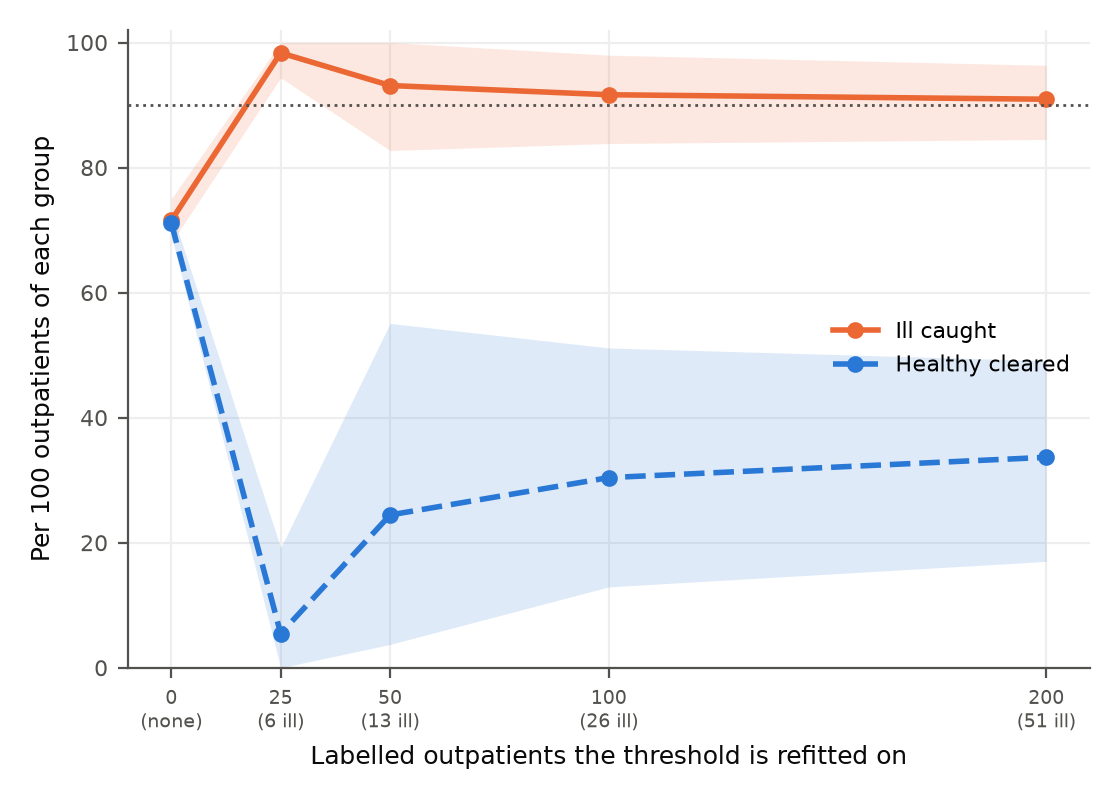
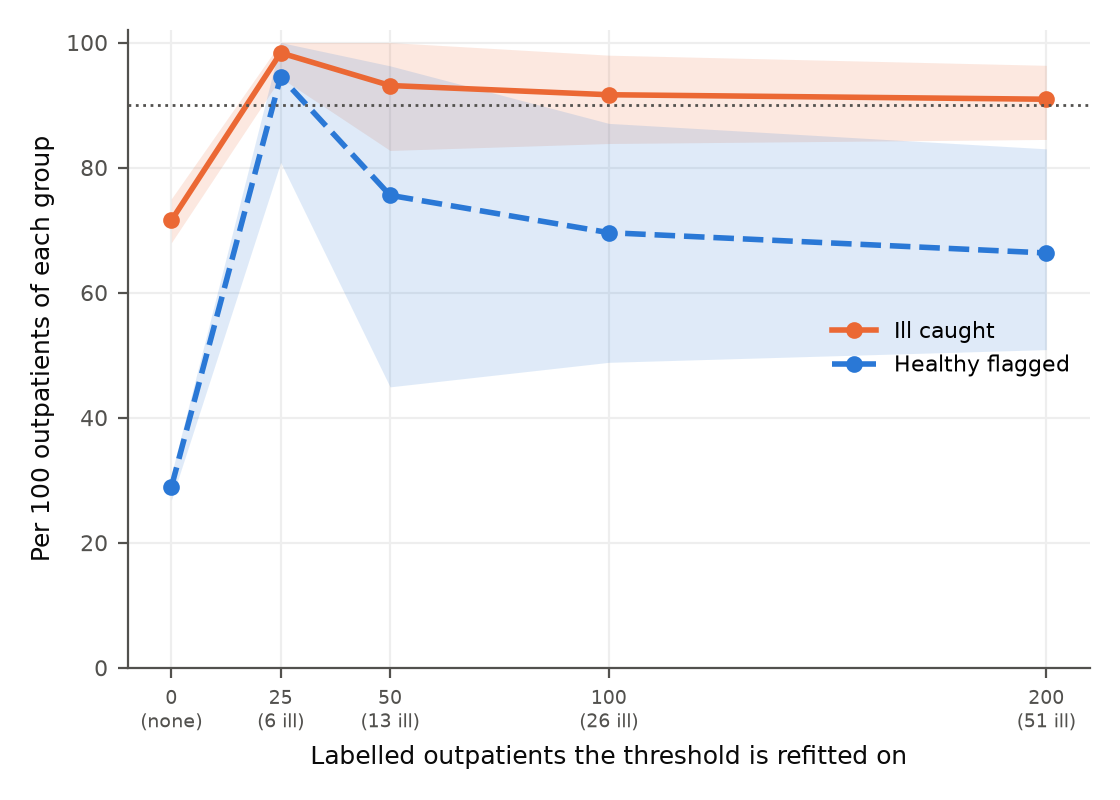
Name the figures' bars as the text names them, and round Table 1 to add up
Figure 1 labelled "caught" the ill flagged with no reader and "flagged" the
healthy flagged with no reader, while the text counts every flagged patient
as flagged and every flagged ill patient as caught. The legend now reads
"flagged, no reader", "sent to a reader", "missed" and "cleared, no
reader", "sent to a reader", "flagged, no reader", and each row's counts are
rounded to sum to 100. Figure 3 drew the healthy cleared under a text that
counts the healthy flagged; it now draws the healthy flagged. The three
captions name the cohorts, their sizes and what each line or band is.

Table 1's second-threshold rows were rounded one by one, so 54 + 37 made 91
for 90 caught and 35 + 36 made 71 for 72. paper_values rounds each group of
100 by largest remainder, and a test holds the sums. The caption gives the
counts behind each column.

The abstract now names the 2,203 other inpatients the 58 of 100 healthy are
read on, and gives the infarction result it announced in its methods. The
infarction method sentence in section 2.5 no longer splits "applied
unchanged" from what it was applied to.

Closes A19-2, A18-9, A19-10, A19-13, A01-5, A02-8, A16-8, A18-10, A19-11,
A19-9, A19-14, A17-14, A18-14.
Red at the parent: test_table_1_rows_add_up_to_the_totals_they_split.

$ uv run ruff check .
All checks passed!
$ uv run ruff format --check .
116 files already formatted
$ uv run mypy .
Success: no issues found in 102 source files
$ uv run pytest -q -o addopts=""
[…]

diff --git a/scripts/paper_figures.py b/scripts/paper_figures.py
@@ -88,6 +88,17 @@ def curve(result: dict[str, Any], path: Path) -> None:
     plt.close(fig)
 
 
+def largest_remainder(shares: list[float]) -> list[int]:
+    """Shares that sum to one, as whole counts per 100 that sum to 100: each is rounded
+    down, and the points left go to the largest remainders."""
+    exact = [100 * s for s in shares]
+    counts = [int(x) for x in exact]
+    order = sorted(range(len(exact)), key=lambda i: exact[i] - counts[i], reverse=True)
+    for i in order[: 100 - sum(counts)]:
+        counts[i] += 1
+    return counts
+
+
 def patients(result: dict[str, Any], path: Path) -> None:
     fig, axes = plt.subplots(1, 2, figsize=(9.0, 3.8), dpi=200, sharey=True)
     rows = [(arm, method) for arm in ARM_NAMES for method in ("plain", "perlabel")]
@@ -96,19 +107,17 @@ def patients(result: dict[str, Any], path: Path) -> None:
         for arm, method in rows
     ]
     for axis, group, names in (
-        (axes[0], "ill", ("caught", "sent to a reader", "missed")),
-        (axes[1], "healthy", ("cleared", "sent to a reader", "flagged")),
+        (axes[0], "ill", ("flagged, no reader", "sent to a reader", "missed")),
+        (axes[1], "healthy", ("cleared, no reader", "sent to a reader", "flagged, no reader")),
     ):
         style(axis)
         axis.grid(False)
         for i, (arm, method) in enumerate(rows):
             shares = result["arms"][arm]["outpatient"]["outcomes"][method][group]
+            keys = ("right_alone", "deferred", "wrong_alone")
+            counts = largest_remainder([shares[k]["share"] for k in keys])
             left = 0.0
-            for key, colour in (
-                ("right_alone", RIGHT),
-                ("deferred", DEFERRED),
-                ("wrong_alone", WRONG),
-            ):
+            for key, colour, shown in zip(keys, (RIGHT, DEFERRED, WRONG), counts, strict=True):
                 width = 100 * shares[key]["share"]
                 axis.barh(
                     i, width, left=left, color=colour, edgecolor="white", linewidth=2, height=0.75
@@ -118,7 +127,7 @@ def patients(result: dict[str, Any], path: Path) -> None:
                     axis.text(
                         left + width / 2,
                         i,
-                        f"{width:.0f}",
+                        f"{shown}",
                         ha="center",
                         va="center",
                         fontsize=7,
@@ -153,11 +162,13 @@ def repair(result: dict[str, Any], path: Path) -> None:
     x = [row["labels"] for row in ladder]
     for key, colour, dash, name in (
         ("sensitivity", OUTPATIENT, "-", "Ill caught"),
-        ("specificity", INPATIENT, "--", "Healthy cleared"),
+        ("specificity", INPATIENT, "--", "Healthy flagged"),
     ):
-        mean = [100 * row[key]["mean"] for row in ladder]
-        low = [100 * row[key]["p10"] for row in ladder]
-        high = [100 * row[key]["p90"] for row in ladder]
+        # Healthy flagged is one minus the specificity, so its band flips ends.
+        flip = key == "specificity"
+        mean = [100 * (1 - row[key]["mean"] if flip else row[key]["mean"]) for row in ladder]
+        low = [100 * (1 - row[key]["p90"] if flip else row[key]["p10"]) for row in ladder]
+        high = [100 * (1 - row[key]["p10"] if flip else row[key]["p90"]) for row in ladder]
         axis.fill_between(x, low, high, color=colour, alpha=0.15, linewidth=0)
         axis.plot(x, mean, dash, color=colour, lw=2, marker="o", ms=5, label=name)
     axis.axhline(90, color=MUTED, lw=1, ls=":")

diff --git a/tests/paper_values.py b/tests/paper_values.py
@@ -56,6 +56,18 @@ def per100(x: float) -> str:
     return f"{round(100 * x)}"
 
 
+def largest_remainder(shares: list[float]) -> list[int]:
+    """Shares that sum to one, as whole counts per 100 that sum to 100: each is rounded
+    down, and the points left go to the largest remainders.  Table 1's rows then add up
+    to the totals they split."""
+    exact = [100 * s for s in shares]
+    counts = [int(x) for x in exact]
+    order = sorted(range(len(exact)), key=lambda i: exact[i] - counts[i], reverse=True)
+    for i in order[: 100 - sum(counts)]:
+        counts[i] += 1
+    return counts
+
+
 def count(n: float) -> str:
     return f"{round(n):,}"
 
@@ -101,10 +113,14 @@ def echonext() -> dict[str, str]:
             out[f"caught_{short}_{c}"] = per100(plain_o["ill"]["right_alone"]["share"])
             out[f"missed_{short}_{c}"] = per100(plain_o["ill"]["wrong_alone"]["share"])
             out[f"flagged_{short}_{c}"] = per100(plain_o["healthy"]["wrong_alone"]["share"])
-            out[f"pl_alone_{short}_{c}"] = per100(perlabel["ill"]["right_alone"]["share"])
-            out[f"pl_def_{short}_{c}"] = per100(perlabel["ill"]["deferred"]["share"])
-            out[f"pl_hdef_{short}_{c}"] = per100(perlabel["healthy"]["deferred"]["share"])
-            out[f"pl_hflag_{short}_{c}"] = per100(perlabel["healthy"]["wrong_alone"]["share"])
+            keys = ("right_alone", "deferred", "wrong_alone")
+            ill = largest_remainder([perlabel["ill"][k]["share"] for k in keys])
+            healthy = largest_remainder([perlabel["healthy"][k]["share"] for k in keys])
+            out[f"pl_alone_{short}_{c}"], out[f"pl_def_{short}_{c}"] = f"{ill[0]}", f"{ill[1]}"
+            out[f"pl_hdef_{short}_{c}"] = f"{healthy[1]}"
+            out[f"pl_hflag_{short}_{c}"] = f"{healthy[2]}"
+            out[f"n_ill_{short}_{c}"] = count(measured["n_ill"])
+            out[f"n_healthy_{short}_{c}"] = count(measured["n"] - measured["n_ill"])
             out[f"def_{short}_{c}"] = pct(measured["label_free"]["share_deferred"])
             out[f"lf_flag_{short}_{c}"] = pct(measured["label_free"]["share_flagged"])
         out[f"auroc_{short}_all"] = (

diff --git a/tests/test_paper_numbers.py b/tests/test_paper_numbers.py
@@ -96,6 +96,7 @@ CONSTANTS = {
     "49": "the upper edge of the youngest age band",
     "80": "the lower edge of the oldest age band",
     "25": "a rung of the ladder",
+    "0": "the rung of the ladder that keeps the inpatient threshold",
     "200": "the draws of every ladder, and a rung",
     "23": "the download date of the public corpora, 23 August 2026",
     "2026": "the year of the study and of the download",
@@ -197,6 +198,18 @@ def test_a_figure_swapped_for_another_figure_of_the_same_file_is_caught() -> Non
 def test_a_name_no_file_defines_is_refused() -> None:
     with pytest.raises(KeyError, match="no_such_figure"):
         render("caught {{no_such_figure}} of them")
+
+
+def test_table_1_rows_add_up_to_the_totals_they_split() -> None:
+    figures = v.values()
+    for c in ("in", "out"):
+        assert int(figures[f"pl_alone_resnet_{c}"]) + int(figures[f"pl_def_resnet_{c}"]) == int(
+            figures[f"caught_resnet_{c}"]
+        )
+        assert int(figures[f"pl_hdef_resnet_{c}"]) + int(figures[f"pl_hflag_resnet_{c}"]) == int(
+            figures[f"flagged_resnet_{c}"]
+        )
+    assert v.largest_remainder([0.3542, 0.3616, 0.2842]) == [36, 36, 28]
 
 
 class TestTheReportsShape:

diff --git a/docs/templates/REPORT.md b/docs/templates/REPORT.md
@@ -6,9 +6,9 @@ Ruben Abbou · October 2026
 
 **Background.** An ECG model for structural heart disease gives each patient a score, and a cut-off on that score, the threshold, decides who is flagged for an echocardiogram. The threshold is set on patients who already had an echocardiogram, and the model is then offered for outpatients. Published validations report the AUROC by care setting, the chance that a randomly chosen ill patient scores higher than a randomly chosen healthy one, and find that it changes little. The AUROC does not say how many ill outpatients the inpatient threshold catches.
 
-**Methods.** EchoNext holds 100,000 ECGs from Columbia, each paired with an echocardiogram. Three models scored them: a network trained here, the published EchoNext mini-model and the ECGFounder foundation model. For each, the threshold was set on {{cal_n}} inpatients to catch 90% of those with moderate or worse structural heart disease, and applied unchanged to {{out_n}} outpatients, {{out_prev}} of them ill. It was then set again on outpatients with known diagnoses: on 100 drawn from those same outpatients, and on the {{vo_n}} outpatients of EchoNext's separate validation group. An infarction model carried from a German ECG database to two Chinese hospitals is reported beside it.
+**Methods.** EchoNext holds 100,000 ECGs from Columbia, each paired with an echocardiogram. Three models scored them: a network trained here, the published EchoNext mini-model and the ECGFounder foundation model. For each, the threshold was set on {{cal_n}} inpatients to catch 90% of those with moderate or worse structural heart disease, checked on {{in_n}} other inpatients, and applied unchanged to {{out_n}} outpatients, {{out_prev}} of them ill. It was then set again on outpatients with known diagnoses: on 100 drawn from those same outpatients, and on the {{vo_n}} outpatients of EchoNext's separate validation group. An infarction model carried from a German ECG database to two Chinese hospitals is reported beside it.
 
-**Results.** Of 100 ill outpatients, the inpatient threshold caught {{caught_resnet_out}} and missed {{missed_resnet_out}} for the trained network; the mini-model caught {{caught_mini_out}} and ECGFounder {{caught_ecgf_out}}. The loss sat mostly in a thick ventricular wall and valve regurgitation; among ill outpatients with an ejection fraction of 45% or less it caught {{bf_lvef_out}}. It also flagged fewer healthy patients: {{flagged_resnet_out}} of 100 healthy outpatients, against {{flagged_resnet_in}} of 100 healthy inpatients. The AUROC moved only from {{auroc_resnet_in}} to {{auroc_resnet_out}}: the model told ill from healthy outpatients almost as well, and the threshold, unchanged, flagged fewer healthy patients at the cost of missing more ill ones. Set on every validation patient whatever the setting, the threshold caught {{va_caught_resnet_out}} of 100 ill outpatients. Set again on 100 outpatients, about {{lad100_ill_resnet}} of them ill, it caught {{lad100_sens_resnet}} of the other outpatients' ill on average, fell short of 90% in {{lad100_below_resnet}} of repetitions and flagged {{lad100_hflag_resnet}} of 100 healthy. Set on {{vo_n}} separate outpatients, {{vo_ill}} of them ill, it caught {{vo_sens_resnet}} ({{vo_sens_resnet_ci}}), {{vo_sens_mini}} for the mini-model and {{vo_sens_ecgf}} for ECGFounder, and flagged {{vo_hflag_resnet}} of 100 healthy.
+**Results.** Of 100 ill outpatients, the inpatient threshold caught {{caught_resnet_out}} and missed {{missed_resnet_out}} for the trained network; the mini-model caught {{caught_mini_out}} and ECGFounder {{caught_ecgf_out}}. The loss sat mostly in a thick ventricular wall and valve regurgitation; among ill outpatients with an ejection fraction of 45% or less it caught {{bf_lvef_out}}. It also flagged fewer healthy patients: {{flagged_resnet_out}} of 100 healthy outpatients, against {{flagged_resnet_in}} of 100 healthy among the other inpatients. The AUROC moved only from {{auroc_resnet_in}} to {{auroc_resnet_out}}: the model told ill from healthy outpatients almost as well, and the threshold, unchanged, flagged fewer healthy patients at the cost of missing more ill ones. Set on every validation patient whatever the setting, the threshold caught {{va_caught_resnet_out}} of 100 ill outpatients. Set again on 100 outpatients, about {{lad100_ill_resnet}} of them ill, it caught {{lad100_sens_resnet}} of the other outpatients' ill on average, fell short of 90% in {{lad100_below_resnet}} of repetitions and flagged {{lad100_hflag_resnet}} of 100 healthy. Set on {{vo_n}} separate outpatients, {{vo_ill}} of them ill, it caught {{vo_sens_resnet}} ({{vo_sens_resnet_ci}}), {{vo_sens_mini}} for the mini-model and {{vo_sens_ecgf}} for ECGFounder, and flagged {{vo_hflag_resnet}} of 100 healthy. The infarction threshold carried from PTB-XL caught {{mi_sens_acs}} of infarctions at Chongqing, where the AUROC fell from {{mi_auroc_ptbxl}} to {{mi_auroc_acs}}, and {{mi_sens_sph}} at Shandong.
 
 **Conclusion.** At Columbia, a threshold validated on inpatients caught {{caught_range}} of 100 ill outpatients for three models, and the AUROC did not show it. Set again on the hospital's own outpatients with known diagnoses, it came near 90% but, read on separate outpatients, fell short of it for all three models, and it flagged more than half of the healthy. A clinic adopting such a model learns the sensitivity it gets only by measuring it on its own outpatients with known diagnoses.
 
@@ -58,7 +58,7 @@ To measure what setting the threshold again costs, the outpatients were split at
 
 ### 2.5 Infarction across three hospitals
 
-A deep neural network was trained on PTB-XL, a German research database of ECGs recorded between 1989 and 1996 [15]. Its threshold was set to catch 90% of infarctions in half of PTB-XL's held-out patients and applied unchanged; this was repeated with 200 different random halves, and each figure is the average, to Shandong Provincial Hospital [16] and to the First Affiliated Hospital of Chongqing Medical University [17]. At PTB-XL an infarction is an infarct pattern read on the tracing, most often without a stated stage; at Shandong it is read on the tracing too, and most are coded as old; at Chongqing it is an acute infarction named in the discharge diagnosis of patients who all had coronary angiography. The supplement repeats the design across five databases, each in turn setting the threshold that is then applied to the other four, on five rhythm and conduction diagnoses: sinus rhythm, atrial fibrillation, left bundle-branch block, right bundle-branch block and first-degree atrioventricular block.
+A deep neural network was trained on PTB-XL, a German research database of ECGs recorded between 1989 and 1996 [15]. Its threshold was set to catch 90% of infarctions in half of PTB-XL's held-out patients and applied unchanged to the other half, to Shandong Provincial Hospital [16] and to the First Affiliated Hospital of Chongqing Medical University [17]. This was repeated with 200 random halves, and each figure is the average. At PTB-XL an infarction is an infarct pattern read on the tracing, most often without a stated stage; at Shandong it is read on the tracing too, and most are coded as old; at Chongqing it is an acute infarction named in the discharge diagnosis of patients who all had coronary angiography. The supplement repeats the design across five databases, each in turn setting the threshold that is then applied to the other four, on five rhythm and conduction diagnoses: sinus rhythm, atrial fibrillation, left bundle-branch block, right bundle-branch block and first-degree atrioventricular block.
 
 ## 3. Results
 
@@ -72,9 +72,9 @@ Set instead on all {{va_n}} validation patients, whatever their setting, the thr
 
 ![Figure 1](results/figures/fig_patients.png)
 
-Figure 1. What the inpatient threshold does to 100 ill and 100 healthy outpatients, for each model, with the threshold alone and with the second threshold. Blue: the right answer with no reader (an ill patient flagged, a healthy patient cleared). Grey: sent to a reader. Orange: the wrong answer (an ill patient missed, a healthy patient flagged). {{out_ill}} ill and {{out_healthy}} healthy outpatients.
+Figure 1. The inpatient threshold applied to the test outpatients ({{out_ill}} ill, {{out_healthy}} healthy), per 100 of each, for the three models and the untrained floor. Rows marked one threshold use the threshold alone; rows marked two thresholds add the second threshold, and patients between the two go to a reader (grey). Blue: an ill patient flagged or a healthy one cleared, with no reader. Orange: an ill patient missed, or a healthy one flagged with no reader. Ill caught is blue plus grey. Each row's counts are rounded to sum to 100.
 
-Table 1. The trained network's inpatient threshold, per 100 patients of each group, from `results/echonext_clinical.json`.
+Table 1. The trained network's inpatient threshold, per 100 ill and per 100 healthy patients of each group: {{n_ill_resnet_in}} ill and {{n_healthy_resnet_in}} healthy other inpatients, {{n_ill_resnet_out}} ill and {{n_healthy_resnet_out}} healthy outpatients, from `results/echonext_clinical.json`. The second-threshold rows split the caught and the healthy flagged, and are rounded so that they add up to them.
 
 | | Other inpatients | Outpatients |
 |---|---|---|
@@ -98,7 +98,7 @@ The AUROC of the trained network was {{auroc_resnet_in}} among inpatients ({{aur
 
 ![Figure 2](results/figures/fig_curve.png)
 
-Figure 2. Ill patients caught against healthy patients flagged, per 100, for the trained network, among inpatients ({{in_n}}) and outpatients ({{out_n}}). Each curve runs through every possible threshold. The dots mark the threshold set on the calibration inpatients.
+Figure 2. Ill patients caught against healthy patients flagged, per 100, for the trained network at every possible threshold, among the {{in_n}} test inpatients ({{n_ill_resnet_in}} ill) and the {{out_n}} test outpatients ({{n_ill_resnet_out}} ill). The dots mark the one threshold set on the {{cal_n}} calibration inpatients.
 
 The curves also give the price of catching 90 of 100 ill outpatients when every outpatient's diagnosis is known: {{oracle_flag_resnet_out}} of 100 healthy outpatients flagged, against {{oracle_flag_resnet_in}} of 100 healthy inpatients; for the mini-model, {{oracle_flag_mini_out}} and {{oracle_flag_mini_in}}, and for ECGFounder, {{oracle_flag_ecgf_out}} and {{oracle_flag_ecgf_in}}. The threshold carried from the inpatients therefore misses {{extra_missed}} more ill outpatients in 100 than one set for 90% among outpatients, and flags {{extra_cleared}} fewer healthy ones.
 
@@ -124,7 +124,7 @@ These 100 were drawn from the outpatients the threshold was read on. A clinic se
 
 ![Figure 3](results/figures/fig_repair.png)
 
-Figure 3. The trained network's threshold set again on outpatients with known diagnoses, against how many there were, with the average number of ill patients among them. The result is read on other outpatients. Lines: the average over {{lad_draws}} repetitions. Bands: the middle 80% of the repetitions.
+Figure 3. The trained network's threshold set again on n outpatients with known diagnoses (x axis, with the average number of ill among them) and read on the other half of the outpatients, {{lad_draws}} repetitions with a new split each. Solid line: ill caught per 100; dashed line: healthy flagged per 100. Lines are averages and bands the middle 80% of the repetitions; x = 0 is the inpatient threshold, and the dotted line marks 90.
 
 In the same clinic of 1,000 outpatients, the new threshold would send {{k_flagged_lad100}} for an echocardiogram and miss {{k_missed_lad100}} of the {{k_ill_out}} ill, against {{k_flagged_out}} and {{k_missed_out}} with the inpatient threshold: about {{echo_per_extra_ill}} more echocardiograms for each extra ill outpatient found. With every outpatient's diagnosis known, catching 90 of 100 ill flags {{oracle_flag_resnet_out}} of 100 healthy. Most of the difference is the safety margin the rule takes on a small sample: it places the threshold slightly below the sample's own 90% point, so that it still catches 90% on average when the sample happens to be unrepresentative. Placed at the sample's own 90% point, with no margin, the threshold caught {{plain_sens}} on average, flagged {{plain_hflag}} of 100 healthy, and fell short of 90% in {{plain_below}} of the repetitions. The untrained floor, set again on 100 outpatients the same way, caught {{lad100_sens_floor}} and flagged {{lad100_hflag_floor}} of 100 healthy: once the threshold is set on outpatients, the trained models flag {{floor_gap}} fewer healthy outpatients in 100 than a network that learnt nothing.
 

diff --git a/REPORT.md b/REPORT.md
@@ -6,9 +6,9 @@ Ruben Abbou · October 2026
 
 **Background.** An ECG model for structural heart disease gives each patient a score, and a cut-off on that score, the threshold, decides who is flagged for an echocardiogram. The threshold is set on patients who already had an echocardiogram, and the model is then offered for outpatients. Published validations report the AUROC by care setting, the chance that a randomly chosen ill patient scores higher than a randomly chosen healthy one, and find that it changes little. The AUROC does not say how many ill outpatients the inpatient threshold catches.
 
-**Methods.** EchoNext holds 100,000 ECGs from Columbia, each paired with an echocardiogram. Three models scored them: a network trained here, the published EchoNext mini-model and the ECGFounder foundation model. For each, the threshold was set on 1,903 inpatients to catch 90% of those with moderate or worse structural heart disease, and applied unchanged to 1,059 outpatients, 25.6% of them ill. It was then set again on outpatients with known diagnoses: on 100 drawn from those same outpatients, and on the 858 outpatients of EchoNext's separate validation group. An infarction model carried from a German ECG database to two Chinese hospitals is reported beside it.
+**Methods.** EchoNext holds 100,000 ECGs from Columbia, each paired with an echocardiogram. Three models scored them: a network trained here, the published EchoNext mini-model and the ECGFounder foundation model. For each, the threshold was set on 1,903 inpatients to catch 90% of those with moderate or worse structural heart disease, checked on 2,203 other inpatients, and applied unchanged to 1,059 outpatients, 25.6% of them ill. It was then set again on outpatients with known diagnoses: on 100 drawn from those same outpatients, and on the 858 outpatients of EchoNext's separate validation group. An infarction model carried from a German ECG database to two Chinese hospitals is reported beside it.
 
-**Results.** Of 100 ill outpatients, the inpatient threshold caught 72 and missed 28 for the trained network; the mini-model caught 73 and ECGFounder 72. The loss sat mostly in a thick ventricular wall and valve regurgitation; among ill outpatients with an ejection fraction of 45% or less it caught 91.4%. It also flagged fewer healthy patients: 29 of 100 healthy outpatients, against 58 of 100 healthy inpatients. The AUROC moved only from 0.815 to 0.805: the model told ill from healthy outpatients almost as well, and the threshold, unchanged, flagged fewer healthy patients at the cost of missing more ill ones. Set on every validation patient whatever the setting, the threshold caught 77 of 100 ill outpatients. Set again on 100 outpatients, about 26 of them ill, it caught 91.6% of the other outpatients' ill on average, fell short of 90% in 33.1% of repetitions and flagged 70 of 100 healthy. Set on 858 separate outpatients, 240 of them ill, it caught 86.3% (81.7% to 89.9%), 87.8% for the mini-model and 89.7% for ECGFounder, and flagged 52 of 100 healthy.
+**Results.** Of 100 ill outpatients, the inpatient threshold caught 72 and missed 28 for the trained network; the mini-model caught 73 and ECGFounder 72. The loss sat mostly in a thick ventricular wall and valve regurgitation; among ill outpatients with an ejection fraction of 45% or less it caught 91.4%. It also flagged fewer healthy patients: 29 of 100 healthy outpatients, against 58 of 100 healthy among the other inpatients. The AUROC moved only from 0.815 to 0.805: the model told ill from healthy outpatients almost as well, and the threshold, unchanged, flagged fewer healthy patients at the cost of missing more ill ones. Set on every validation patient whatever the setting, the threshold caught 77 of 100 ill outpatients. Set again on 100 outpatients, about 26 of them ill, it caught 91.6% of the other outpatients' ill on average, fell short of 90% in 33.1% of repetitions and flagged 70 of 100 healthy. Set on 858 separate outpatients, 240 of them ill, it caught 86.3% (81.7% to 89.9%), 87.8% for the mini-model and 89.7% for ECGFounder, and flagged 52 of 100 healthy. The infarction threshold carried from PTB-XL caught 83.7% of infarctions at Chongqing, where the AUROC fell from 0.932 to 0.793, and 97.3% at Shandong.
 
 **Conclusion.** At Columbia, a threshold validated on inpatients caught 72 to 73 of 100 ill outpatients for three models, and the AUROC did not show it. Set again on the hospital's own outpatients with known diagnoses, it came near 90% but, read on separate outpatients, fell short of it for all three models, and it flagged more than half of the healthy. A clinic adopting such a model learns the sensitivity it gets only by measuring it on its own outpatients with known diagnoses.
 
@@ -58,7 +58,7 @@ To measure what setting the threshold again costs, the outpatients were split at
 
 ### 2.5 Infarction across three hospitals
 
-A deep neural network was trained on PTB-XL, a German research database of ECGs recorded between 1989 and 1996 [15]. Its threshold was set to catch 90% of infarctions in half of PTB-XL's held-out patients and applied unchanged; this was repeated with 200 different random halves, and each figure is the average, to Shandong Provincial Hospital [16] and to the First Affiliated Hospital of Chongqing Medical University [17]. At PTB-XL an infarction is an infarct pattern read on the tracing, most often without a stated stage; at Shandong it is read on the tracing too, and most are coded as old; at Chongqing it is an acute infarction named in the discharge diagnosis of patients who all had coronary angiography. The supplement repeats the design across five databases, each in turn setting the threshold that is then applied to the other four, on five rhythm and conduction diagnoses: sinus rhythm, atrial fibrillation, left bundle-branch block, right bundle-branch block and first-degree atrioventricular block.
+A deep neural network was trained on PTB-XL, a German research database of ECGs recorded between 1989 and 1996 [15]. Its threshold was set to catch 90% of infarctions in half of PTB-XL's held-out patients and applied unchanged to the other half, to Shandong Provincial Hospital [16] and to the First Affiliated Hospital of Chongqing Medical University [17]. This was repeated with 200 random halves, and each figure is the average. At PTB-XL an infarction is an infarct pattern read on the tracing, most often without a stated stage; at Shandong it is read on the tracing too, and most are coded as old; at Chongqing it is an acute infarction named in the discharge diagnosis of patients who all had coronary angiography. The supplement repeats the design across five databases, each in turn setting the threshold that is then applied to the other four, on five rhythm and conduction diagnoses: sinus rhythm, atrial fibrillation, left bundle-branch block, right bundle-branch block and first-degree atrioventricular block.
 
 ## 3. Results
 
@@ -72,17 +72,17 @@ Set instead on all 4,626 validation patients, whatever their setting, the thresh
 
 ![Figure 1](results/figures/fig_patients.png)
 
-Figure 1. What the inpatient threshold does to 100 ill and 100 healthy outpatients, for each model, with the threshold alone and with the second threshold. Blue: the right answer with no reader (an ill patient flagged, a healthy patient cleared). Grey: sent to a reader. Orange: the wrong answer (an ill patient missed, a healthy patient flagged). 271 ill and 788 healthy outpatients.
+Figure 1. The inpatient threshold applied to the test outpatients (271 ill, 788 healthy), per 100 of each, for the three models and the untrained floor. Rows marked one threshold use the threshold alone; rows marked two thresholds add the second threshold, and patients between the two go to a reader (grey). Blue: an ill patient flagged or a healthy one cleared, with no reader. Orange: an ill patient missed, or a healthy one flagged with no reader. Ill caught is blue plus grey. Each row's counts are rounded to sum to 100.
 
-Table 1. The trained network's inpatient threshold, per 100 patients of each group, from `results/echonext_clinical.json`.
+Table 1. The trained network's inpatient threshold, per 100 ill and per 100 healthy patients of each group: 1,156 ill and 1,047 healthy other inpatients, 271 ill and 788 healthy outpatients, from `results/echonext_clinical.json`. The second-threshold rows split the caught and the healthy flagged, and are rounded so that they add up to them.
 
 | | Other inpatients | Outpatients |
 |---|---|---|
 | Ill, caught | 90 | 72 |
 | Ill, missed | 10 | 28 |
 | Healthy, flagged | 58 | 29 |
-| With the second threshold: ill flagged with no reader | 54 | 35 |
-| With the second threshold: ill sent to a reader | 37 | 36 |
+| With the second threshold: ill flagged with no reader | 54 | 36 |
+| With the second threshold: ill sent to a reader | 36 | 36 |
 | With the second threshold: healthy sent to a reader | 49 | 27 |
 | With the second threshold: healthy flagged with no reader | 9 | 2 |
 
@@ -98,7 +98,7 @@ The AUROC of the trained network was 0.815 among inpatients (0.796 to 0.832), 0.
 
 ![Figure 2](results/figures/fig_curve.png)
 
-Figure 2. Ill patients caught against healthy patients flagged, per 100, for the trained network, among inpatients (2,203) and outpatients (1,059). Each curve runs through every possible threshold. The dots mark the threshold set on the calibration inpatients.
+Figure 2. Ill patients caught against healthy patients flagged, per 100, for the trained network at every possible threshold, among the 2,203 test inpatients (1,156 ill) and the 1,059 test outpatients (271 ill). The dots mark the one threshold set on the 1,903 calibration inpatients.
 
 The curves also give the price of catching 90 of 100 ill outpatients when every outpatient's diagnosis is known: 59 of 100 healthy outpatients flagged, against 57 of 100 healthy inpatients; for the mini-model, 65 and 59, and for ECGFounder, 58 and 58. The threshold carried from the inpatients therefore misses 18 more ill outpatients in 100 than one set for 90% among outpatients, and flags 30 fewer healthy ones.
 
@@ -124,7 +124,7 @@ These 100 were drawn from the outpatients the threshold was read on. A clinic se
 
 ![Figure 3](results/figures/fig_repair.png)
 
-Figure 3. The trained network's threshold set again on outpatients with known diagnoses, against how many there were, with the average number of ill patients among them. The result is read on other outpatients. Lines: the average over 2,000 repetitions. Bands: the middle 80% of the repetitions.
+Figure 3. The trained network's threshold set again on n outpatients with known diagnoses (x axis, with the average number of ill among them) and read on the other half of the outpatients, 2,000 repetitions with a new split each. Solid line: ill caught per 100; dashed line: healthy flagged per 100. Lines are averages and bands the middle 80% of the repetitions; x = 0 is the inpatient threshold, and the dotted line marks 90.
 
 In the same clinic of 1,000 outpatients, the new threshold would send 752 for an echocardiogram and miss 21 of the 256 ill, against 398 and 73 with the inpatient threshold: about 7 more echocardiograms for each extra ill outpatient found. With every outpatient's diagnosis known, catching 90 of 100 ill flags 59 of 100 healthy. Most of the difference is the safety margin the rule takes on a small sample: it places the threshold slightly below the sample's own 90% point, so that it still catches 90% on average when the sample happens to be unrepresentative. Placed at the sample's own 90% point, with no margin, the threshold caught 88.8% on average, flagged 61 of 100 healthy, and fell short of 90% in 48.8% of the repetitions. The untrained floor, set again on 100 outpatients the same way, caught 91.6% and flagged 76 of 100 healthy: once the threshold is set on outpatients, the trained models flag 5 to 7 fewer healthy outpatients in 100 than a network that learnt nothing.
 
